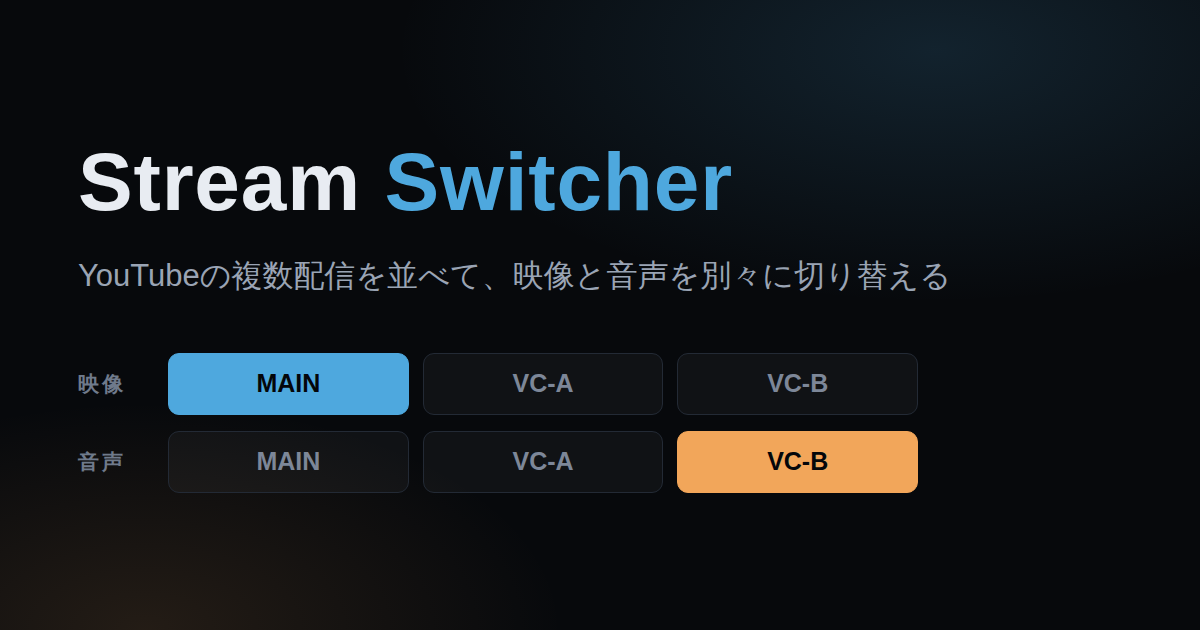
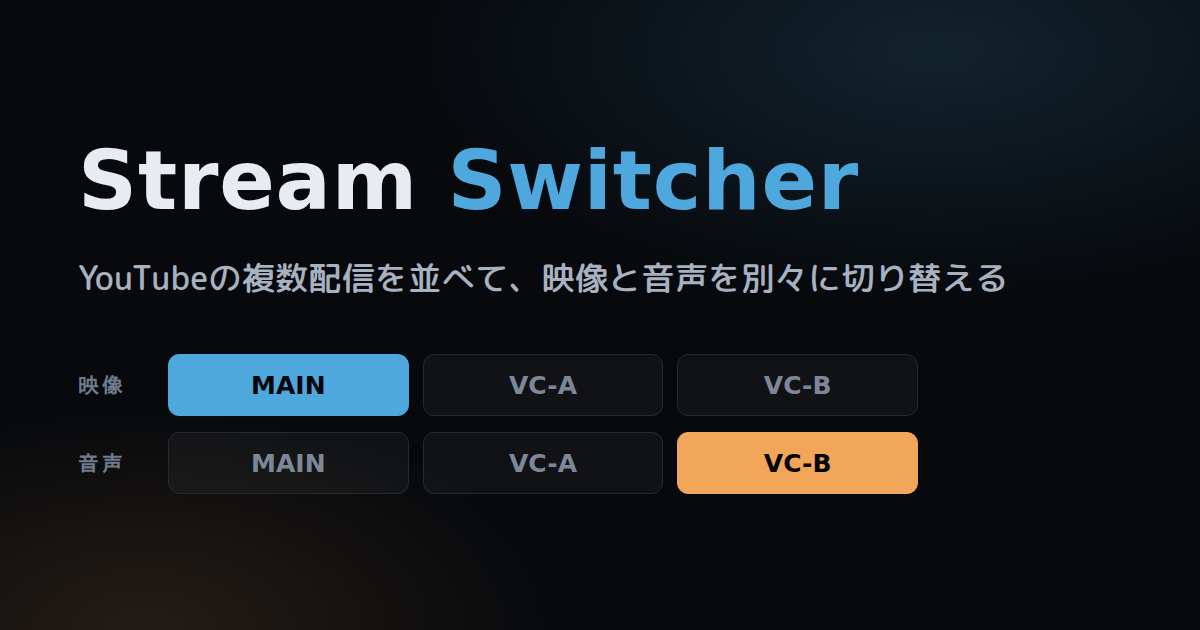
og画像の説明文を丸ゴシックにし、中国語フォントへの落ち込みを直す
説明文を Rounded Mplus 1c（丸ゴシック / SIL OFL）にしてカジュアルな
字面にする。

あわせて、日本語フォントの指定が効いていなかったのを直す。
"Noto Sans CJK JP","Hiragino Sans",Meiryo はいずれも生成環境に無く、
sans-serif も Latin だけの DejaVu Sans に解決されるため、日本語は
WenQuanYi Zen Hei（中国語ゴシック）で描かれていた。「骨」「令」などが
中国語字形になっていたので、映像 / 音声のラベルは IPAPGothic を明示
する（アプリのUIに合わせた素の字面）。見出しは従来どおり。

版下を tools/og-image.html として残す。PNG だけだと後から手を入れ
られないため。使用フォントと、日本語フォントを明示しないと中国語
字形になる旨をファイル内に書いてある。

実際に使われたフォントは CDP の CSS.getPlatformFontsForNode で確認
した（説明文=Rounded Mplus 1c、ラベル=IPAPGothic、中国語フォントの
混入なし）。

Claude-Session: https://claude.ai/code/session_01L1nmWRiQ5RKucNnTkTxCVL

diff --git a/tools/og-image.html b/tools/og-image.html
@@ -1,0 +1,53 @@
+<!DOCTYPE html>
+<html lang="ja">
+<head>
+<meta charset="utf-8">
+<!--
+  og.png (1200x630) の版下。1200x630 で開いてそのままスクリーンショットする。
+  説明文: Rounded Mplus 1c（丸ゴシック / SIL OFL）
+          https://github.com/google/fonts/tree/main/ofl/mplusrounded1c
+  UI部分: IPAPGothic（日本語ゴシック。アプリのUIに合わせた素の字面）
+  日本語フォントを明示しないと環境によって中国語フォントに落ち、
+  「骨」「令」などが中国語字形で描かれるので必ず指定すること。
+-->
+<style>
+*{box-sizing:border-box;margin:0;}
+body{
+  width:1200px;height:630px;background:#07090c;color:#e8ecf2;
+  display:flex;flex-direction:column;justify-content:center;padding:0 78px;
+  background-image:radial-gradient(900px 420px at 78% 8%, rgba(78,168,222,.16), transparent 60%),
+                   radial-gradient(700px 380px at 12% 100%, rgba(242,166,90,.12), transparent 60%);
+}
+h1{font-family:"DejaVu Sans",sans-serif;font-size:82px;font-weight:700;letter-spacing:.01em;line-height:1.1;}
+h1 span{color:#4ea8de;}
+p{
+  font-family:"Rounded Mplus 1c","M PLUS Rounded 1c",sans-serif;
+  margin-top:26px;font-size:33px;font-weight:500;color:#a7b1c0;line-height:1.6;letter-spacing:.01em;
+}
+.rows{margin-top:50px;display:flex;flex-direction:column;gap:16px;width:840px;}
+.row{display:flex;align-items:center;gap:14px;}
+.lab{
+  font-family:"IPAPGothic",sans-serif;
+  width:76px;font-size:21px;letter-spacing:.14em;color:#6f7a8b;font-weight:700;
+}
+.pill{
+  flex:1;height:62px;border:1px solid #232a35;border-radius:11px;
+  display:flex;align-items:center;justify-content:center;
+  font-family:"DejaVu Sans",sans-serif;font-size:25px;font-weight:700;
+  color:#7d8798;background:rgba(255,255,255,.04);
+}
+.pill.a{background:#4ea8de;border-color:#4ea8de;color:#04060a;}
+.pill.b{background:#f2a65a;border-color:#f2a65a;color:#04060a;}
+</style>
+</head>
+<body>
+<h1>Stream <span>Switcher</span></h1>
+<p>YouTubeの複数配信を並べて、映像と音声を別々に切り替える</p>
+<div class="rows">
+  <div class="row"><span class="lab">映像</span>
+    <span class="pill a">MAIN</span><span class="pill">VC-A</span><span class="pill">VC-B</span></div>
+  <div class="row"><span class="lab">音声</span>
+    <span class="pill">MAIN</span><span class="pill">VC-A</span><span class="pill b">VC-B</span></div>
+</div>
+</body>
+</html>
